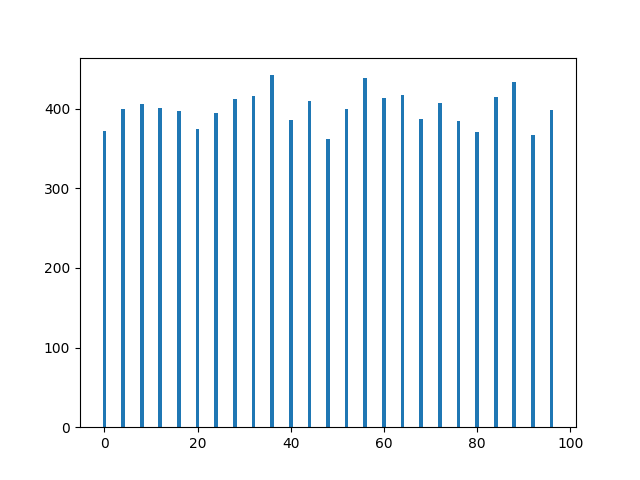
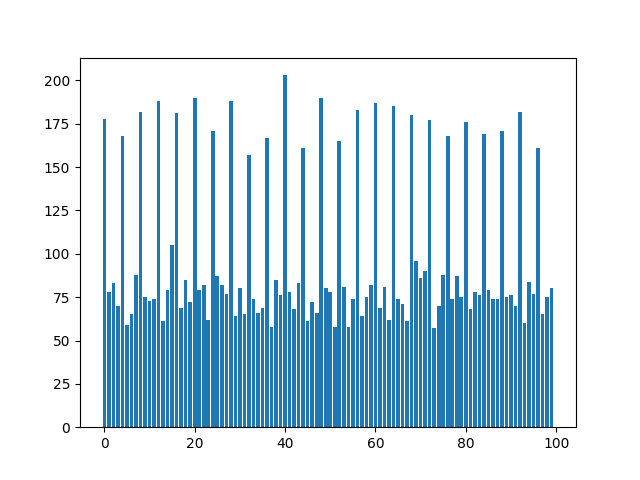
yup

diff --git a/unique_hash.py b/unique_hash.py
@@ -20,7 +20,7 @@ def q2():
     for j in t_vals:
         h_vals = []
         for i in range(10000):
-            h_vals.append(h(j,x=random.random()))
+            h_vals.append(h(j,r=random.random(),x=random.random()))
         
         counter_h1 = collections.Counter(h_vals)
 
@@ -39,8 +39,9 @@ def q3():
         collisions_counter = 0
         for i in range(10000):
             x = random.random()
-            h_vals_1.append(h(t_vals_1[j],x=x))
-            h_vals_2.append(h(t_vals_2[j],x=x))
+            r = random.random()
+            h_vals_1.append(h(t_vals_1[j],r=r,x=x))
+            h_vals_2.append(h(t_vals_2[j],r=r,x=x))
 
             if h_vals_1[i] == h_vals_2[i]:
                 collisions_counter+=1
@@ -62,24 +63,25 @@ def q4():
 
         for i in range(10000):
             x = random.random()
-            h_vals.append(h(t_vals_1[j],x=x)-h(t_vals_2[j],x=x))
+            r = random.random()
+            h_vals.append(h(t_vals_1[j],r=r,x=x)-h(t_vals_2[j],r=r,x=x))
 
         counter_h = collections.Counter(h_vals)
 
         graph(counter_h,"h("+str(t_vals_1[j])+")-h("+str(t_vals_2[j])+").png")
 
-def h(t,r=0.02,x=random.random()):
+def h(t,r=0.02,x=0.1):
     x_new = x
     #y_new = random.random()
-    for i in range(t):
+    for i in range(t+10):
         x_new = r*x_new*(1-x_new)# - s*(y_new*x_new)
         #y_new = r*y_new*(1-y_new) #-  s*(x_new*y_new)
-    return int(np.floor(t/(x_new) % 100))
+    return int(t/x_new) % 100
 
 
 def main():
-    #q2()
-    #q3()
+    q2()
+    q3()
     q4()
 if __name__ == "__main__":
     main()
